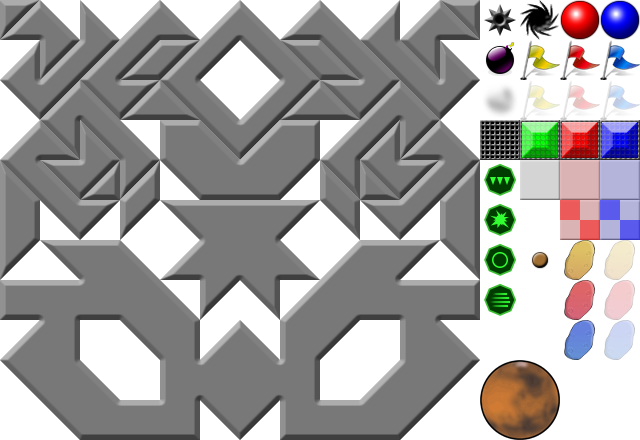
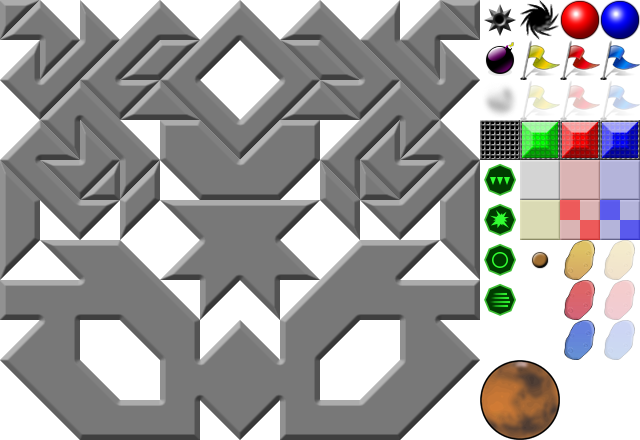
yellow team tiles

Changed region(s): [[0.8125, 0.4432, 0.875, 0.5614]]

diff --git a/map.js b/map.js
@@ -1150,7 +1150,7 @@ $(function() {
   TileState.prototype.restoreInto = function(tile) {
     if(this.topType && this.topType != marsBallType)
     {
-      if(this.type==tile.type && tile.type != floorType && tile.type != redFloorType && tile.type != blueFloorType) {
+      if(this.type==tile.type && tile.type != floorType && tile.type != yellowFloorType && tile.type != redFloorType && tile.type != blueFloorType) {
         addAlert('danger','Error: You cannot place a spawn tile on top of this type of tile',1500);
         if(tile.topType) this.topType = tile.topType;
         else delete this.topType;
@@ -1380,7 +1380,7 @@ $(function() {
   var floorType, emptyType, 
     wallType, wallTopLeftType, wallTopRightType, wallBottomLeftType, wallBottomRightType,
     blueFlagType, redFlagType, switchType, bombType, onFieldType, offFieldType,
-    redFieldType, blueFieldType, portalType, redSpawnType, blueSpawnType, redSpeedpadType, blueSpeedpadType, redFloorType, blueFloorType,
+    redFieldType, blueFieldType, portalType, redSpawnType, blueSpawnType, redSpeedpadType, blueSpeedpadType, yellowFloorType, redFloorType, blueFloorType,
     spikeType, powerupType, speedpadType,
     yellowFlagType, redEndzoneType, blueEndzoneType,
     redPotatoType, bluePotatoType,
@@ -1401,6 +1401,7 @@ $(function() {
     speedpadType = new TileType('speedpad', 0,0, 255,255,0, "Boost", {image: 'url(speedpad.png)'}),
     blueSpeedpadType = new TileType('blueSpeedpad', 0,0, 115,115,255, "Blue Team Boost", {image: 'url(speedpadblue.png)'}),
     redSpeedpadType = new TileType('redSpeedpad', 0,0, 255,115,115, "Red Team Boost", {image: 'url(speedpadred.png)'}),
+    yellowFloorType = new TileType('yellowFloor', 13,5, 220,220,186, "Yellow Speed Tile - Increases speed for non-flag-carriers."),
     redFloorType = new TileType('redFloor', 14,4, 220,186,186, "Red Speed Tile - Increases speed for non-flag-carriers."),
     blueFloorType = new TileType('blueFloor', 15,4, 187,184,221, "Blue Speed Tile - Increases speed for non-flag-carriers."),
     offFieldType = new TileType('offField', 12,3, 0,117,0, "Gate - Default Off", {logicFn: setFieldFn('off')}),
@@ -2189,9 +2190,9 @@ $(function() {
 
   var paletteRows = [
     [wallType, wallTopLeftType, wallTopRightType, wallBottomLeftType, wallBottomRightType, floorType, emptyType], 
-    [yellowFlagType, redFlagType, blueFlagType, redSpawnType, blueSpawnType, powerupType],
+    [yellowFlagType, redFlagType, blueFlagType, redSpawnType, blueSpawnType, powerupType, gravityWellType],
     [potatoType, redPotatoType, bluePotatoType, redEndzoneType, blueEndzoneType, portalType, exitPortalType],
-    [speedpadType, redSpeedpadType, blueSpeedpadType, redFloorType, blueFloorType, spikeType, gravityWellType],
+    [speedpadType, redSpeedpadType, blueSpeedpadType, yellowFloorType, redFloorType, blueFloorType, spikeType],
     [onFieldType, redFieldType, blueFieldType, offFieldType, switchType, bombType, marsBallType]
   ];
 
@@ -2481,7 +2482,7 @@ $(function() {
         var spawn = spawnpoints[color] || [];
         for(var i = 0;i < spawn.length;i++) {
           var tile = tiles[parseInt(spawn[i].x)+deltaX][parseInt(spawn[i].y)+deltaY];
-          if(tile && !tile.radius && !tile.weight && (tile.type == floorType || tile.type == redFloorType || tile.type == blueFloorType)) {
+          if(tile && !tile.radius && !tile.weight && (tile.type == floorType || tile.type == yellowFloorType || tile.type == redFloorType || tile.type == blueFloorType)) {
             var changes = {
               type: (color=='red') ? redSpawnType : blueSpawnType,
               radius: (spawn[i].radius!=undefined) ? spawn[i].radius : undefined,
